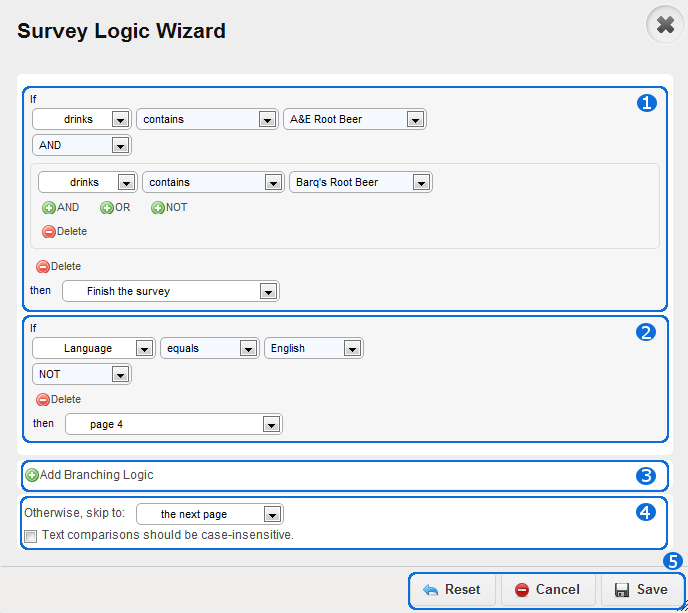
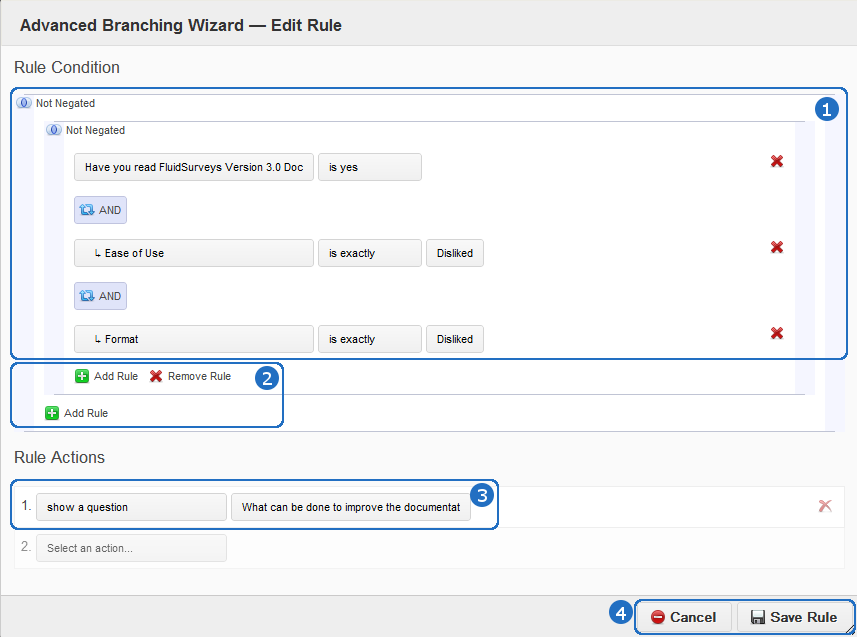
new branching logic has been added

diff --git a/theme/sidebarinfo.html b/theme/sidebarinfo.html
@@ -7,7 +7,7 @@
 			<li>Market Research</li>
 			<li>Education Research</li>
 			<li>Customer Satisfaction Surveys</li>
-			<li>Employee Satisifaction Surveys</li>
+			<li>Employee Satisfaction Surveys</li>
 			<li>and more...</li>
 		</ul>
 		<a href="http://www.fluidsurveys.com/" target="_blank">Visit the FluidSurveys Website</a>
@@ -18,14 +18,13 @@
 		Save your mouse scroller. Click below to be instantly 
 		transported to that section:
 		<ul>
-			<li><a href="http://dashboard_link">Dashboard</a></li>
-			<li><a href="http://dashboard_link">Editor</a></li>
-			<li><a href="http://dashboard_link">Style</a></li>
-			<li><a href="http://dashboard_link">Preview</a></li>
-			<li><a href="http://dashboard_link">Publish</a></li>
-			<li><a href="http://dashboard_link">Invites</a></li>
-			<li><a href="http://dashboard_link">Analyze</a></li>	
-			<li><a href="http://dashboard_link">Tutorials</a></li>
+			<li><a href="http://docs.fluidsurveys.com/chapters/Dashboard/index.html">Dashboard</a></li>
+			<li><a href="http://docs.fluidsurveys.com/chapters/Editor/index.html">Editor</a></li>
+			<li><a href="http://docs.fluidsurveys.com/chapters/Style/index.html">Style</a></li>
+			<li><a href="http://docs.fluidsurveys.com/chapters/Preview/index.html">Preview</a></li>
+			<li><a href="http://docs.fluidsurveys.com/chapters/Publish/index.html">Publish</a></li>
+			<li><a href="http://docs.fluidsurveys.com/chapters/Invite/index.html">Invites</a></li>
+			<li><a href="http://docs.fluidsurveys.com/chapters/Analyze/index.html">Analyze</a></li>
 		</ul>
 	</p>
 <h3>Other Formats</h3>
@@ -38,7 +37,7 @@
 </p>
 <h3>Other Languages</h3>
 <p>
-	FluidSurveys documentation is available in other langauges as well:
+	FluidSurveys documentation is available in other languages as well:
 	<ul>
 		<li><span style="cursor:help;" title="Coming Soon">French</span></li>
 		<li><span style="cursor:help;" title="Coming Soon">Spanish</span></li>

diff --git a/chapters/Publish/settings.rst b/chapters/Publish/settings.rst
@@ -25,9 +25,9 @@ Display options are everything that is front-facing, ie., what affects a respond
 	* - Section
 	  - Description
 	* - 1. Remove the back button from the survey
-	  - Prevent respondents from going backwards and editing their rersponses. As soon as the respondent presses “Next”, the responses they've submitted are saved and can not be altered
+	  - Prevent respondents from going backwards and editing their responses. As soon as the respondent presses “Next”, the responses they've submitted are saved and can not be altered
 	* - 2. Remove the progress bar from the survey
-	  - The progress bar appears, by default, at the top of every survey page. It lets the respondent know how much of the survey they’ve completed and how much they have left. Enabling this will disable the progress bar
+	  - The progress bar appears, by default, at the top of every survey page. It lets the respondent know how much of the survey they've completed and how much they have left. Enabling this will disable the progress bar
 	* - 3. Allow user to save their survey and continue it at a later time
 	  - Surveys can often be very long and detailed and therefore it’s not always feasible for respondents to complete them in one sitting. A nifty feature allows respondents to save their progress and come back to it at a later date.
 	* - 4. Show "Clear Page" button at the bottom of survey pages.
@@ -35,7 +35,7 @@ Display options are everything that is front-facing, ie., what affects a respond
 	* - 5. Show "Save Page" button at the bottom of survey pages.
 	  - Saves all of the answers on the page. This is not the same as, "Save and Continue Later", the user must remain on the page.
 	* - 6. Show "Exit Survey" button at the bottom of survey pages.
-	  - Add an 'Exit Survey' button to the bottom of your survey that will allow a respondant to exit the survey, deleting any responses they have provided.
+	  - Add an 'Exit Survey' button to the bottom of your survey that will allow a respondent to exit the survey, deleting any responses they have provided.
 	* - 7. Allow users to download/print responses upon completion of the survey.
 	  - Allows respondents to download a hardcopy of their responses.
 	* - 8. Display a button that will allow users to download a PDF to review their responses before completing the survey.
@@ -95,7 +95,7 @@ Not necessarily restrict access to the survey, but disabling specific options, s
 Quotas and Deadlines
 ^^^^^^^^^^^^^^^^^^^^
 
-Quotas allows for the number of respones to be tracked that match a specific numerical value. When the limit is met, eg., 100 Completed Responses, the survey can be automatically closed. Deadlines on the other hand, allows for the survey to be closed (or opened) on a specific date, regardless of the number of garnered responses.
+Quotas allows for the number of responses to be tracked that match a specific numerical value. When the limit is met, eg., 100 Completed Responses, the survey can be automatically closed. Deadlines on the other hand, allows for the survey to be closed (or opened) on a specific date, regardless of the number of garnered responses.
 
 .. figure:: ../../resources/publish/quotas_and_deadlines_page.png
 	:scale: 70%
@@ -119,7 +119,7 @@ Quotas allows for the number of respones to be tracked that match a specific num
 Access Restrictions
 ^^^^^^^^^^^^^^^^^^^
 
-Specificy the amount of times a user can complete a survey, or the access alloted to a user, such as entering a password before viewing even a single question, or completing a Turning Test after the survey has been completed to ensure that valid data was provided by a Human
+Specificy the amount of times a user can complete a survey, or the access alloted to a user, such as entering a password before viewing even a single question, or completing a Turing Test after the survey has been completed to ensure that valid data was provided by a Human
 
 .. figure:: ../../resources/publish/access_restrictions_page.png
 	:scale: 70%
@@ -136,13 +136,13 @@ Specificy the amount of times a user can complete a survey, or the access allote
 	* - Section
 	  - Description
 	* - 1. Password Protect this survey
-	  - Provide a password, which is not restricted to any format. All characters are allowed. Additionally, as opposed to using a text password, the ability to enable CAPTCHA whcih is a Completed Automated Public Turning test that allows for the software to tell Computers and Humans apart. This will require respondents to transcribe two random words. This will nto show for logged in users, and thus will not be visible by pressing the preview button above. You must log out to view this feature in action.
+	  - Provide a password, which is not restricted to any format. All characters are allowed. Additionally, as opposed to using a text password, the ability to enable CAPTCHA which is a Completed Automated Public Turing test that allows for the software to tell Computers and Humans apart. This will require respondents to transcribe two random words. This will not show for logged in users, and thus will not be visible by pressing the preview button above. You must log out to view this feature in action.
 	* - 2. Many times per computer (no restrictions)
 	  - Allows individuals to respond to the survey as many times as they’d like, from any computer. There would be no restrictions placed on respondents, and every response 	  would be recorded as a new entry in analytics. This is the default survey mode.
 	* - 3. Once per computer (uses cookies/sessions to identify users)
-	  - Once an individual completes the survey, a cookie is created and no one using that same computer would be able to access the survey again. Note, Internet browsers allow for the deletion of internet cookies, and if an individual does this, they would be able to re-take the survey (or another user would be able to take the survey) from the same computer.
+	  - Once an individual completes the survey, a cookie is created and no one using that same computer would be able to access the survey again. Note, Internet browsers allow for the deletion of Internet cookies, and if an individual does this, they would be able to re-take the survey (or another user would be able to take the survey) from the same computer.
 	* - 4. Once per location (once per IP Address - not recommended for surveys to be completed by more than one individual per organization. In most organizations everyone shares one IP Address)
-	  - The most restrictive option, this setting limits survey responses to one per IP address. Typically, users in a household or organization all have the same IP address. Therefore, if you’d like one response per household, this would be a good feature to use, however, if you’re surveying many people in one organization, it would not be the best choice
+	  - The most restrictive option, this setting limits survey responses to one per IP address. Typically, users in a household or organization all have the same IP address. Therefore, if you'd like one response per household, this would be a good feature to use, however, if you're surveying many people in one organization, it would not be the best choice
 	* - 5. Embedded survey (only enabled on one page surveys)
 	  - If you have a one page survey, you can embed it into a 3rd party website, and all of the results will be recorded to fluidsurveys.com. Selecting this option will provide you with the HTML code required to embed the questionnaire.
 	* - 6. Invite only (only allow users with a valid unused invite to take the survey)
@@ -260,10 +260,16 @@ Other options are mainly options that do not strictly belong in a category on th
 	* - 5. Metatag Name
 	  - A Metatag is a data (information) about data. When customizing for a tablet, it is required that the viewport is added as a metatag, in order for a specific CSS rule to be fired when a tablet with a small screen triggers it. 
 
-Changes Pages/Messages
-^^^^^^^^^^^^^^^^^^^^^^
+Change Pages/Messages
+^^^^^^^^^^^^^^^^^^^^^
 
 Any error message, page, or message that appears in your survey is customizable and translatable.
+
+.. tip::
+
+	A termination, and complete page are unique to a collector. Therefore, a termination page may be entirely different for one group, than for another, which allows for a deeper level of customization
+
+Every text area within the "Change Pages/"
 
 **Generic Messages Page**
 
@@ -280,7 +286,7 @@ The basic pages found at the end of a survey
 	* - 2. Survey Closed Page
 	  - This is displayed when a survey is not live or has been closed.
 	* - 3. Save & Continue Page
-	  - This text is displayed when a respondant has saved their survey for continuation later.
+	  - This text is displayed when a respondent has saved their survey for continuation later.
 
 **Error & Warnings Page**
 
@@ -394,7 +400,7 @@ Mass Translations can be found under [Publish].
 	* - Option
 	  - Description
 	* - 1. Survey Language
-	  - Each language will have a specific code that allows for you to quickly identifiy which file you are presently translating. Example of such languages
+	  - Each language will have a specific code that allows for you to quickly identify which file you are presently translating. Example of such languages
 		    * fr = French
 		    * en = English
 		    * de = German

diff --git a/chapters/Editor/advancedfeatures.rst b/chapters/Editor/advancedfeatures.rst
@@ -199,8 +199,8 @@ Branching is similar to simple skipping in that it allows you to send respondent
 
 	* - Option
 	  - Description
-	* - 1. Add Branching Logic
-	  - Click "Add Branching Logic" to add a rule. Please note that in order to associate branching with a question in your survey, the question must first have a question identifier. To learn how to add an identifier, refer to the Identifier section in the manual.
+	* - 1. Add Branching Rules
+	  - Click "Add Branching Rule" to add a rule. Please note that in order to associate branching with a question in your survey, the question must first have a question identifier. To learn how to add an identifier, refer to the Identifier section in the manual.
 
 Every branching logic condition has a quality that will execute when a block has been satisfied. There are 11 choices available to help better farther assist you in customizing your survey to your specific needs.
 
@@ -218,28 +218,28 @@ Every branching logic condition has a quality that will execute when a block has
 
 	* - Option
 	  - Description
-	* - 1. Page #
+	* - 1. Skip to page
 	  - Jump to a specific page. You cannot select a previous page
-	* - 2. Finish the survey
+	* - 2. Complete the survey
 	  - Jump to the "Thank you" page. This will mark any response as "Complete". This branching logic is perfect.
 	* - 3. Terminate the survey
 	  - Jump to the end. This will mark any response as "Incomplete". This branching logic is perfect when you want to keep track of a demographic you may not specifically be tailoring to, ie., a survey only for females, those that watch more than 10 movies a year, etc.
-	* - 4. Redirect to a URL
-	  - Redirect the respondent to a web site.
-	* - 5. Skip to a random page
+	* - 4. Skip to a random page
 	  - Randomly jump to a random page. You cannot select a previous page.
-	* - 6. Randomly traverse specified range
-	  - Jump between specified pages, ie., 4, 10, 11
-	* - 7. Hide a question
-	  - Based on a response, hide a question from the respondents view outright
-	* - 8. Show a question
+	* - 5. Hide a question
+	  - Based on a response, hide a question from the respondents view outright 
+	* - 6. Show a question
 	  - Based on a response, show a question to the respondents view
-	* - 9. Disable a question
+	* - 7.  Disable a question
 	  - Disabling a question will make it so that its choices and variables cannot be selected, ie., grayed out
-	* - 10. E-mail...
+	* - 8. Send an email
 	  - Email an individual(s) with the satisfied branching logic with a customizable Subject, Message, and adjustable Advanced Options
-	* - 11. Mark this response as complete
-	  - Responses are either Incomplete, or Complete. Based on a condition, some Administrators would want a survey to be marked "Complete" right away based on a response, as opposed to waiting until the [Submit] button is clicked at the end of the survey.
+	* - 9. Redirect to a URL
+	  - Redirect the respondent to a web site.
+	* - 10. Mark the response as completed
+	  -  Responses are either Incomplete, or Complete. Based on a condition, some Administrators would want a survey to be marked "Complete" right away based on a response, as opposed to waiting until the [Submit] button is clicked at the end of the survey.
+	* - 11. Randomly traverse a page range
+	  - Jump between specified pages, ie., 4, 10, 11
 
 .. warning::
 
@@ -262,15 +262,25 @@ Branching Logic can include more than 1 condition. It is best to look at logic a
 	* - Option
 	  - Description
 	* - 1. Condition 1
-	  - If "drinks" contains "A&E" Root Beer AND "drinks" contains Barq's Root Beer, then "Finish the survey"
-	* - 2. Condition 2
-	  - If "Language" equals English, NOT, then go to page 4
-	* - 3. Add Branching Logic
-	  - Click "Add Branching Logic" to add a rule. Please note that in order to associate branching with a question in your survey, the question must first have a question identifier. To learn how to add an identifier, refer to the Identifier section in the manual
-	* - 4. Otherwise
-	  - If any of the above conditions in the survey logic wizard pop-up, 
-	* - 5. Control
-	  - Save, Cancel, or Reset your advanced branching logic in your survey. 
+	  - Branching Conditions can be broken down into a basic sentence structure that adheres to, "If Have you read FluidSurveys Version 3.0 Documentation is Yes, AND Ease of Use AND Format are both exactly Disliked".
+	* - 2. Add Rule
+	  - Click "Add Rule" to add a branching condition. Please note that in order to associate branching with a question in your survey, the question must first have a question identifier. To learn how to add an identifier, refer to the Identifier section in the manual
+	* - 3. Rule Actions
+	  - Every condition has a rule. Therefore, based on the above Condition, the individual will see the "What can be done to improve the document?" question
+	* - 4. Control
+	  - Save Rule, or Cancel, or the added advanced branching logic
+
+Clicking "Save Rule" will return you to the main branching logic screen, wherein additional rules can be added. 
+
+.. figure:: ../../resources/editor/screen_with_logic.png
+	:align: center
+	:scale: 70%
+	:alt: Screen with logic
+	:class: screenshot
+
+	*Figure 9.1* Main screen with logic
+
+Clicking the "X" (Top-right) or pressing [Esc] on the keyboard, will present an error dialog that will inform you to Save any unsaved changes. Always be saving!
 
 .. warning::
 

diff --git a/chapters/Analyze/reports.rst b/chapters/Analyze/reports.rst
@@ -1,7 +1,7 @@
 Reports
 -------
 
-Pro, Ultra, and Enterprise account holders have the ability to create custom reports in the Analyze section, which can aid in whipping your data into shape. The benefits of customized reports are for earier data management, and data analysis, all the while ensuring a pretty journey is maintained. Some of things you can accomplish are:
+Pro, Ultra, and Enterprise account holders have the ability to create custom reports in the Analyze section, which can aid in whipping your data into shape. The benefits of customized reports are for easier data management, and data analysis, all the while ensuring a pretty journey is maintained. Some of things you can accomplish are:
 
 	1. Create Reports similar to a Microsoft Word document
 	2. Export or Share Reports with your colleagues
@@ -41,7 +41,7 @@ Survey Statistics provide quick and effective information about a particular sur
 
 	*Figure 9.1* Survey Statistics
 
-Under Survey Statistics, you’ll see the survey length, the number of individuals who’ve completed the survey, the completion rate (number of completions/number of starts), the average completion time, the estimated completion time and the average number of responses per day.
+Under Survey Statistics, you’ll see the survey length, the number of individuals who've completed the survey, the completion rate (number of completions/number of starts), the average completion time, the estimated completion time and the average number of responses per day.
 
 .. figure:: ../../resources/analyze/responses_per_day.png
 	:scale: 70%

diff --git a/chapters/Analyze/exportdata.rst b/chapters/Analyze/exportdata.rst
@@ -1,7 +1,7 @@
 Export Data
 -----------
 
-For all the data buffs out there, the final piece in the mosaic is the exporting of data which allows for further manipulation external to FluidSurveys.
+For all the data buffs out there, the final piece in the mosaic is the exporting of data which allows for further manipulation external to FluidSurveys. By default, all information is downloaded via http://. When 
 
 Export Survey Questions
 ^^^^^^^^^^^^^^^^^^^^^^^
@@ -43,7 +43,7 @@ You can specify advanced options for the PDF export (show branching conditions, 
      - Display the survey page number on the bottom right. By default, this option is enabled
    * - 2. Show looping information on pages that are looped
      - A survey online can contain looping and branching logic, which can be translated onto paper. While it may make little to no sense, this option can be disabled. By default, this option is enabled
-   * - 3. Show branching information on apges that have branching logic
+   * - 3. Show branching information on pages that have branching logic
      - This has the same affect has as item 2. By default, this option is enabled
 
 .. list-table:: 

diff --git a/chapters/Analyze/responsetable.rst b/chapters/Analyze/responsetable.rst
@@ -154,7 +154,7 @@ Below are a series of Columns available for every surveys response data
    * - 3. Date started
      - 
    * - 4. id
-     - Every response group contains a unique ID that allows for the Admistrator to use it as an archiving tool. The formula is as secret as Colonel Sanders deep fried chicken.
+     - Every response group contains a unique ID that allows for the Administrator to use it as an archiving tool. The formula is as secret as Colonel Sanders deep fried chicken.
    * - 5. Language
      - The language the survey was created in, in this case, en represents "English"
    * - 6. IP Address
